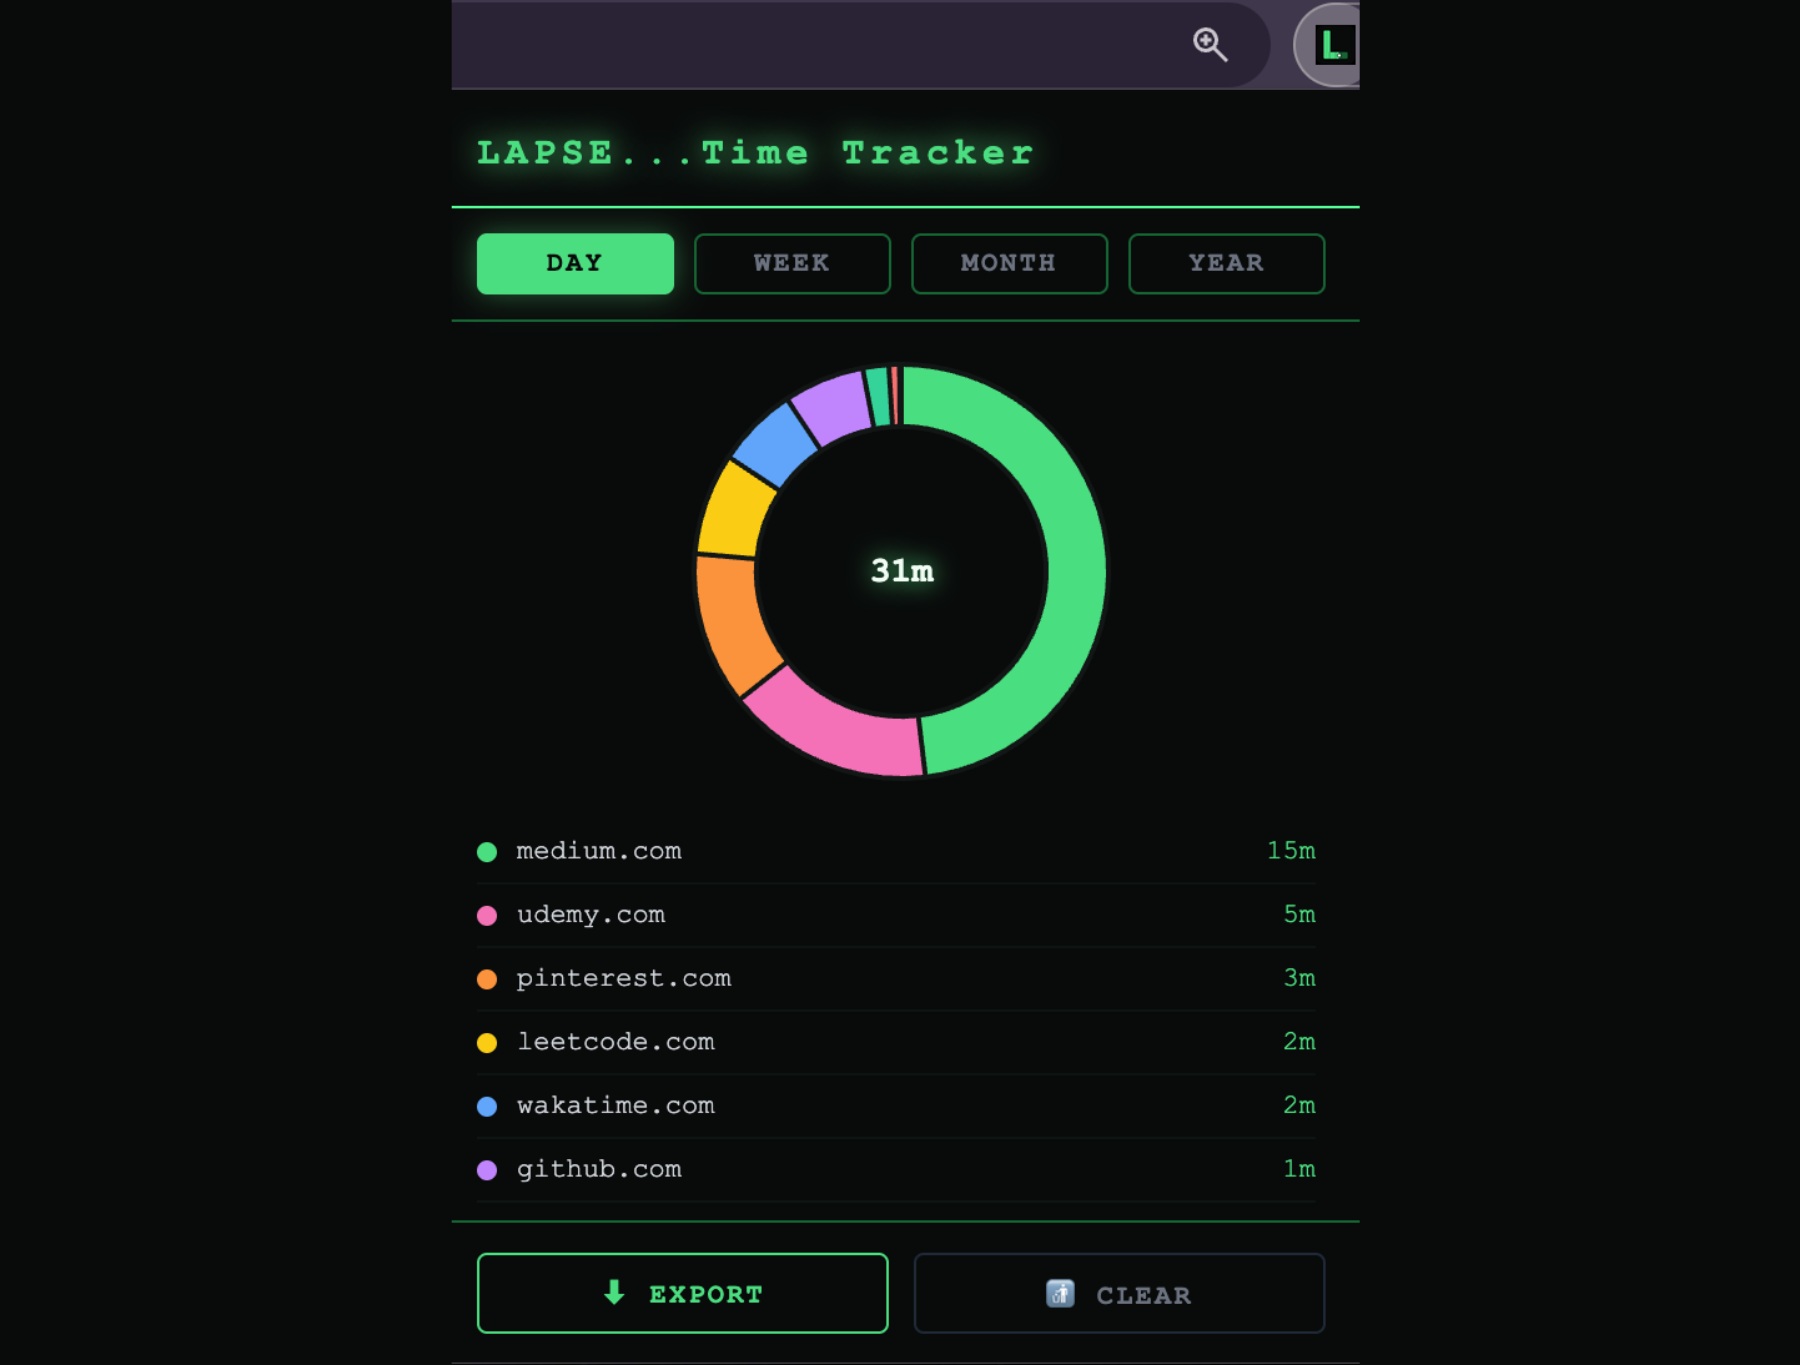
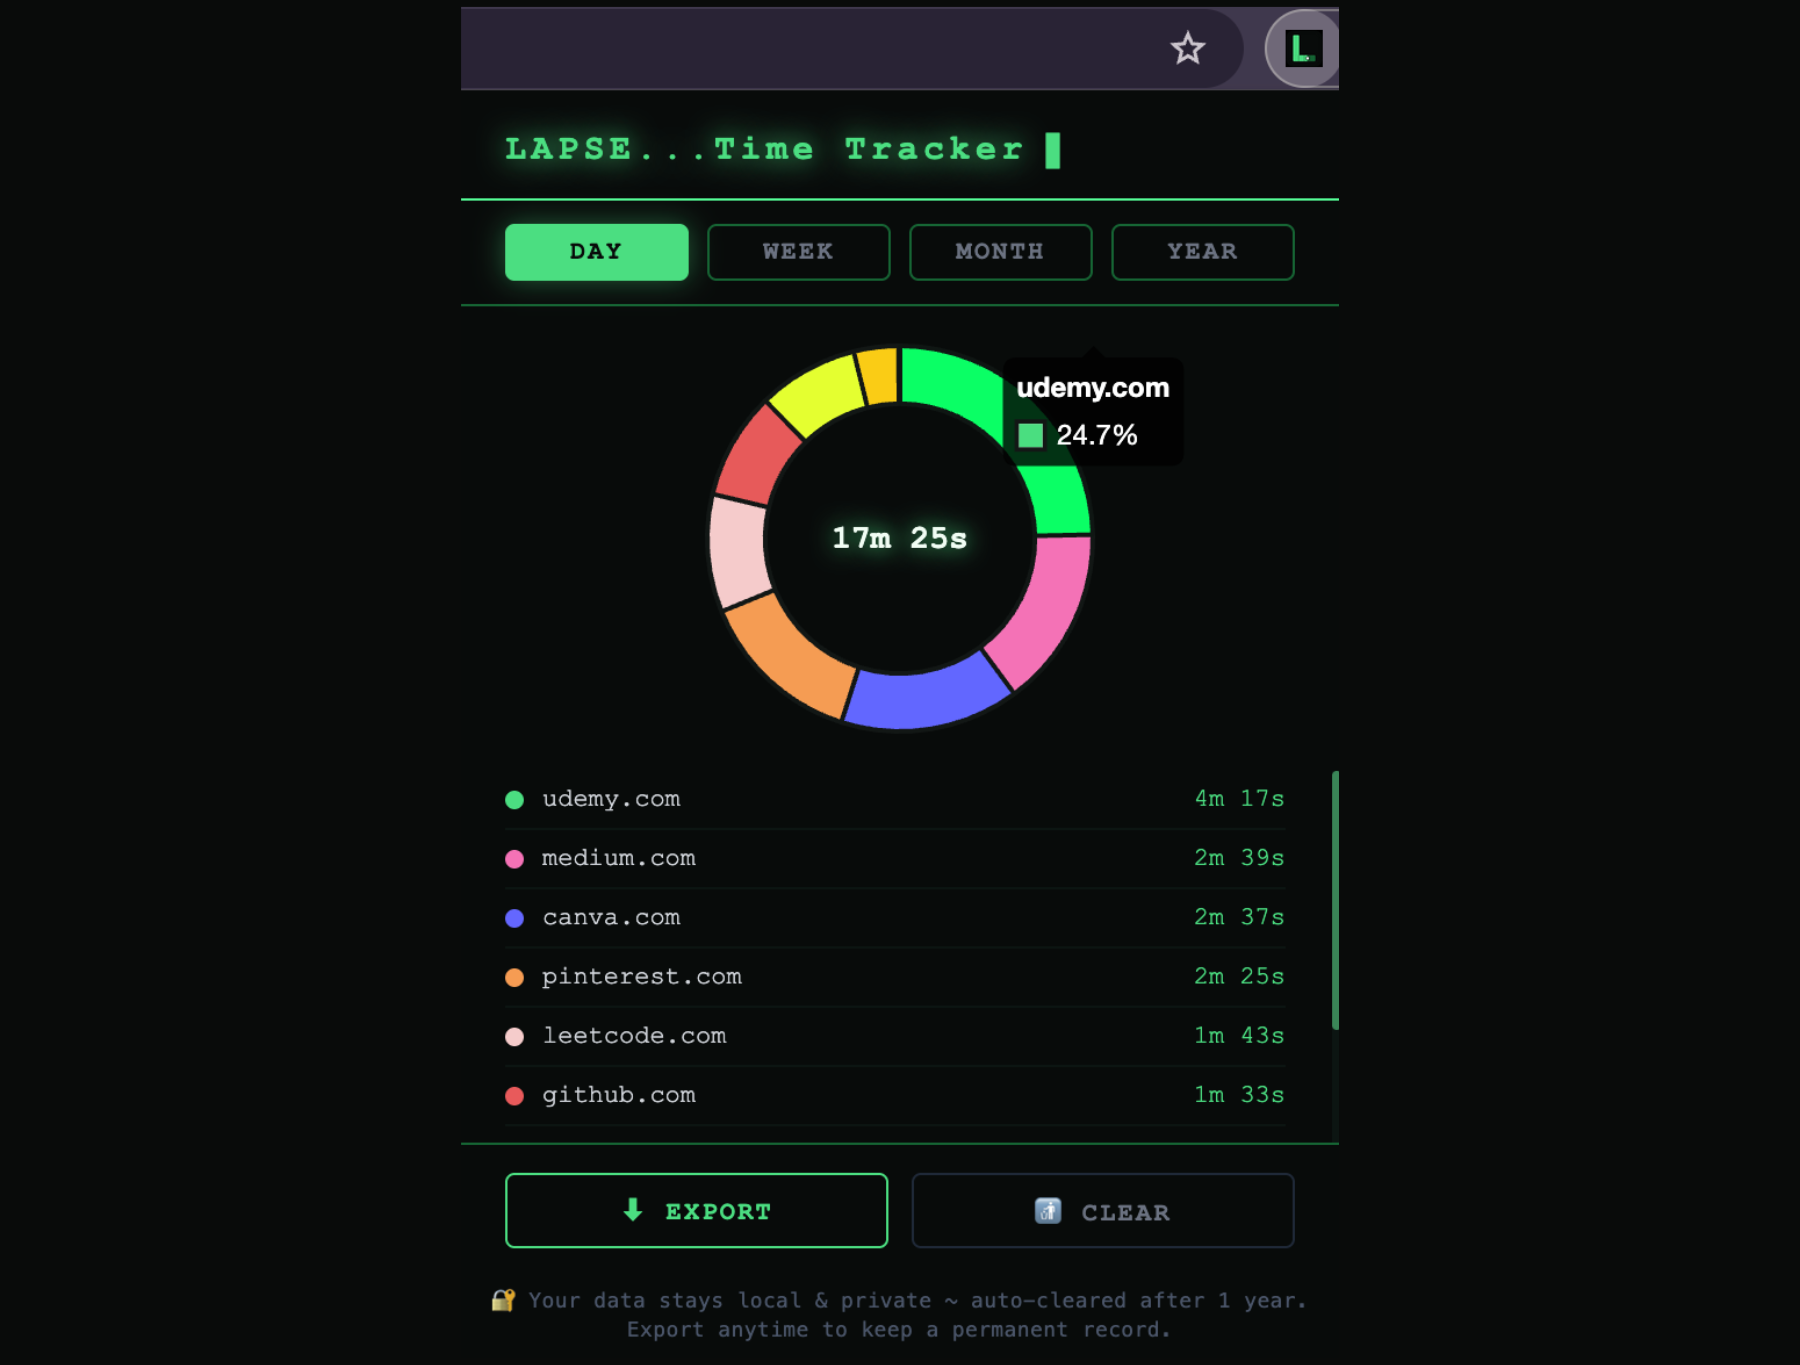
✨ update README

diff --git a/README.md b/README.md
@@ -16,8 +16,8 @@ Built as a learning project to explore Chrome Extension APIs, service workers, a
 - ⏸ **Smart pausing**: stops counting when you switch apps, lock your screen, or go idle
 - 📅 **Daily, weekly, monthly, yearly views** : see your habits at every scale
 - 👩🏽💻 **Beautiful UI** : terminal-inspired dark theme with a spring color chart
-- 📤 **Export your data** : download everything as JSON
-- 🔒 **Privacy first** : all data stored locally using chrome.storage.local, never sent anywhere
+- 📤 **Export your data** : download your stats as a CSV - daily, weekly, monthly or yearly
+- 🔒 **Privacy first** : all data stored locally using chrome.storage.local, never sent anywhere. Auto-cleared after 1 year
 
 ## ✦ Installation
 
@@ -43,7 +43,6 @@ LAPSE is not yet on the Chrome Web Store. To install it locally:
 
 - [ ] 🎨 Theme picker: amber, blue, rose variants, etc
 - [ ] 🎯 Daily time goals with alerts
-- [ ] 📊 CSV export
 - [ ] 🏪 Chrome Web Store release
 
 ## ✦ The Story Behind LAPSE
